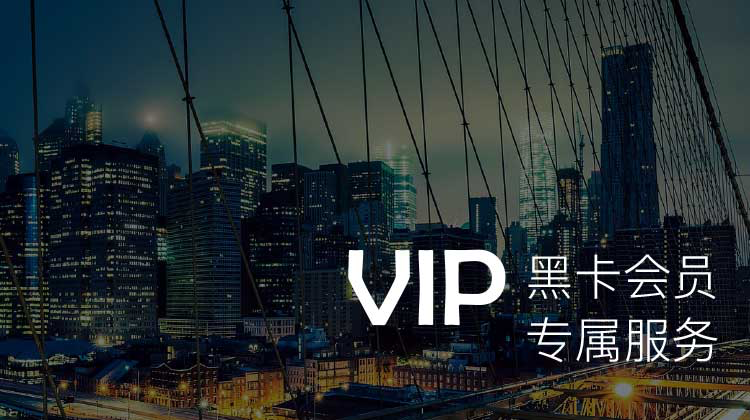
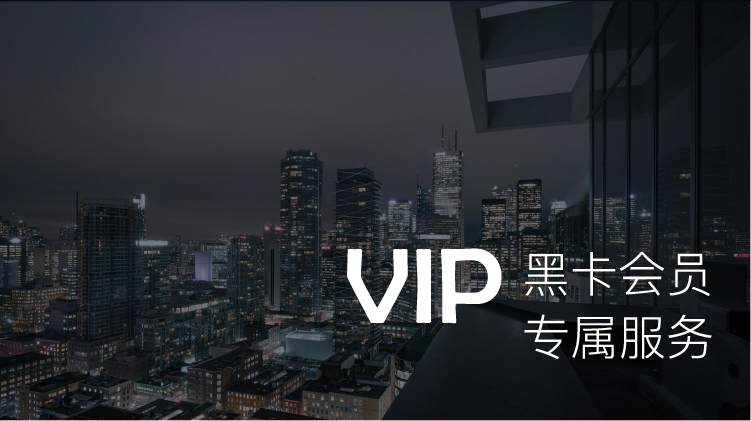
centurion card detail bg

diff --git a/HappyTravel/Map/GuideTagCell.swift b/HappyTravel/Map/GuideTagCell.swift
@@ -86,11 +86,12 @@ class GuideTagCell: MAAnnotationView {
     func setInfo(info: UserInfo?) {
         userInfo = info
         if let headView = viewWithTag(1001) as? UIImageView {
-            if DataManager.currentUser?.authentication == 1 {
-                headView.kf_setImageWithURL(NSURL(string: (info?.headUrl == nil ? "http://" : info?.headUrl)!), placeholderImage: UIImage.init(named: userInfo?.gender == 1 ? "map-head-male" : "map-head-female"), optionsInfo: nil, progressBlock: nil, completionHandler: nil)
-            } else {
-                headView.image = UIImage.init(named: userInfo?.gender == 1 ? "map-head-male" : "map-head-female")
-            }
+            headView.image = UIImage.init(named: userInfo?.gender == 1 ? "map-head-male" : "map-head-female")
+//            if DataManager.currentUser?.authentication == 1 {
+//                headView.kf_setImageWithURL(NSURL(string: (info?.headUrl == nil ? "http://" : info?.headUrl)!), placeholderImage: UIImage.init(named: userInfo?.gender == 1 ? "map-head-male" : "map-head-female"), optionsInfo: nil, progressBlock: nil, completionHandler: nil)
+//            } else {
+//                headView.image = UIImage.init(named: userInfo?.gender == 1 ? "map-head-male" : "map-head-female")
+//            }
             
         }
         

diff --git a/HappyTravel/Personal/CenturionCard/CenturionCardLvSelCell.swift b/HappyTravel/Personal/CenturionCard/CenturionCardLvSelCell.swift
@@ -86,7 +86,7 @@ class CenturionCardLvSelCell : UITableViewCell, UICollectionViewDelegate, UIColl
     }
     func collectionView(collectionView: UICollectionView, cellForItemAtIndexPath indexPath: NSIndexPath) -> UICollectionViewCell {
         let item: CenturionCardLVItem = collectionView.dequeueReusableCellWithReuseIdentifier("CenturionCardLVItem", forIndexPath: indexPath) as! CenturionCardLVItem
-        let selector = Int((DataManager.currentUser?.centurionCardLv)!-1 == indexPath.row)
+        let selector = Int((DataManager.currentUser?.centurionCardLv)! > indexPath.row)
         item.icon.image = UIImage.init(named: centurionCardIcon[indexPath.row]![selector]!)
         item.titleLabel.text = centurionCardTitle[indexPath.row]
         return item

diff --git a/HappyTravel/Personal/CenturionCard/CenturionCardDetailVC.swift b/HappyTravel/Personal/CenturionCard/CenturionCardDetailVC.swift
@@ -134,7 +134,8 @@ class CenturionCardDetailVC: UIViewController, UITableViewDelegate, UITableViewD
                 make.width.height.equalTo(210)
             })
         }
-        headView?.kf_setImageWithURL(NSURL(string: service?.privilege_bg_! == nil ? "" : service!.privilege_bg_!), placeholderImage: UIImage.init(named: "bg-card-detail"), optionsInfo: nil, progressBlock: nil, completionHandler: nil)
+        headView?.image = UIImage.init(named: "bg-card-detail")
+//        headView?.kf_setImageWithURL(NSURL(string: service?.privilege_bg_! == nil ? "" : service!.privilege_bg_!), placeholderImage: UIImage.init(named: "bg-card-detail"), optionsInfo: nil, progressBlock: nil, completionHandler: nil)
         
         return cell!
     }

diff --git a/HappyTravel/Servant/PersonalHeadCell.swift b/HappyTravel/Servant/PersonalHeadCell.swift
@@ -197,7 +197,7 @@ class PersonalHeadCell : UITableViewCell {
     func setInfo(userInfo: UserInfo?, detailInfo: Dictionary<String, AnyObject>?) {
         let view = contentView.viewWithTag(tags["view"]!)
         
-        if let personalView: UIImageView = view!.viewWithTag(tags["personalView"]!) as? UIImageView {
+        if let personalView = view!.viewWithTag(tags["personalView"]!) as? UIImageView {
 //            if userInfo?.bigBGPhotoUrl != nil {                
 //                let photoUrl = NSURL(string: (userInfo?.bigBGPhotoUrl!)!)
 //                personalView.kf_setImageWithURL(photoUrl, placeholderImage: UIImage(named: "default-big-photo"), optionsInfo: nil, progressBlock: nil) { (image, error, cacheType, imageURL) in

diff --git a/HappyTravel/AppDelegate.swift b/HappyTravel/AppDelegate.swift
@@ -71,6 +71,7 @@ class AppDelegate: UIResponder, UIApplicationDelegate, GeTuiSdkDelegate, WXApiDe
         let bar = UINavigationBar.appearance()
         bar.setBackgroundImage(UIImage.init(named: "head-bg"), forBarMetrics: .Default)
         bar.tintColor = UIColor.whiteColor()
+        
         let attr:Dictionary = [NSForegroundColorAttributeName: UIColor.whiteColor()]
         bar.titleTextAttributes = attr
         bar.translucent = false
